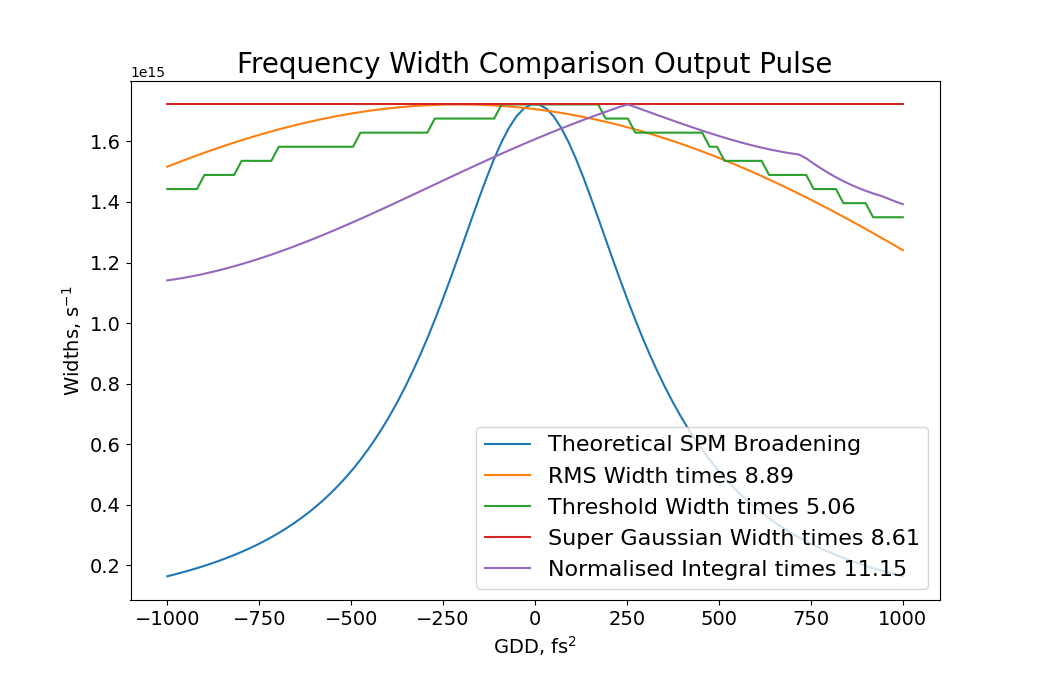
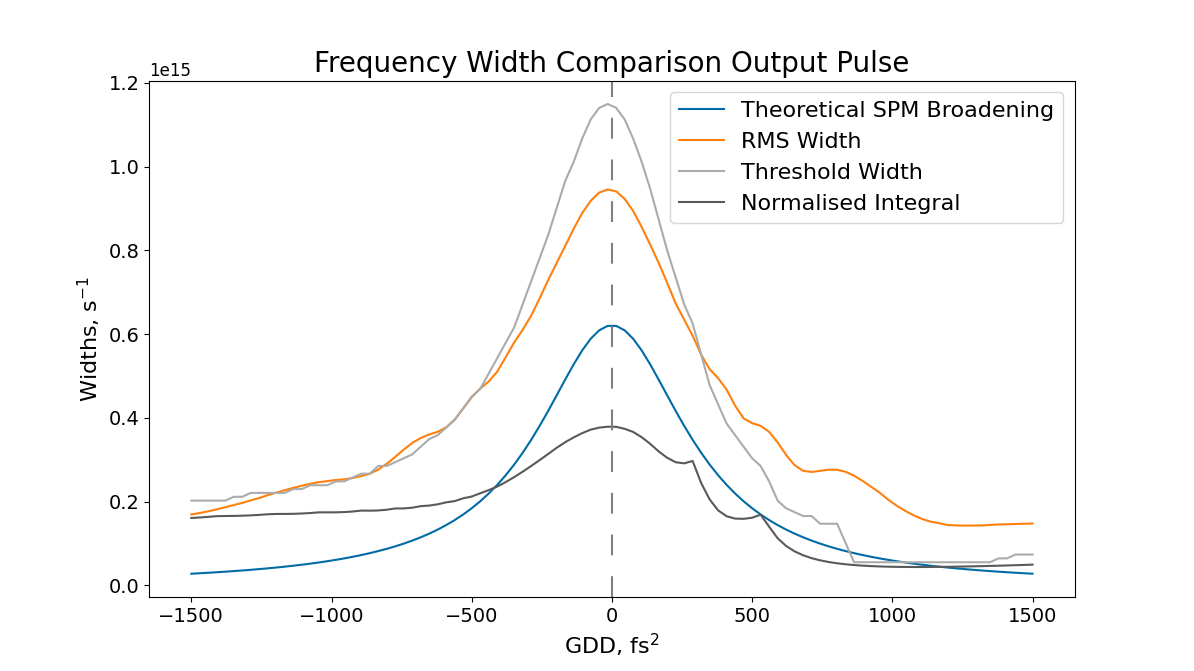
replotted GDD effects

diff --git a/HCF sim/Python/experiments/simulations/GDD_effect/effect_of_GDD_output_widths.py b/HCF sim/Python/experiments/simulations/GDD_effect/effect_of_GDD_output_widths.py
@@ -4,7 +4,11 @@ import numpy as np
 import pandas as pd
 import csv  
 import sys
-plt.rcParams['axes.prop_cycle'] = plt.cycler(color=plt.cm.Set2.colors)
+#plt.rcParams['axes.prop_cycle'] = plt.cycler(color=plt.cm.Set2.colors)
+plt.style.use('tableau-colorblind10')
+plt.rcParams['xtick.labelsize'] = 12
+plt.rcParams['ytick.labelsize'] = 12
+plt.rcParams['axes.labelsize'] = 16
 
 sys.path.append("C:\\Users\\ML\\OneDrive - Imperial College London\\MSci_Project\\code\\Synth\\Optimising-Field-Synthesiser\\HCF sim\\Python\\building datasets\\")
 #sys.path.append("C:\\Users\\iammo\\Documents\\Optimising-Field-Synthesiser\\HCF sim\\Python\\building_datasets\\")
@@ -37,7 +41,7 @@ n=5
 gdd_step=500e-30 #in fs^2
 gdd_mid=0
 #GDDs=[gdd_mid-4*gdd_step,gdd_mid-3*gdd_step,gdd_mid-2*gdd_step,gdd_mid-gdd_step,gdd_mid,gdd_mid+gdd_step,gdd_mid+2*gdd_step,gdd_mid+3*gdd_step,gdd_mid+4*gdd_step]
-GDDs=np.linspace(-2500e-30,2500e-30,100)
+GDDs=np.linspace(-1500e-30,1500e-30,100)
 
 
 # Define fixed params
@@ -45,10 +49,10 @@ c = 299792458
 wavel=800e-9
 energy=1.5e-3
 
-gas = "Ne"
+gas = "Ar"
 Main.gas_str = gas
 Main.eval("gas = Symbol(gas_str)")
-pressure = (0,3)
+pressure = (0,1)
 Main.pressure = pressure
 radius=175e-6
 Main.radius=radius
@@ -153,13 +157,15 @@ ax1.plot(GDDs*10**30,thresh_widths,label="Threshold Width")
 #ax1.plot(GDDs*10**30,superG_widths,label="Super Gaussian Width times %s"%(round(scaling_superG,2)))
 ax1.plot(GDDs*10**30,normint_widths,label="Normalised Integral")
 
-ax1.set_xlabel("GDD, fs$\mathrm{^2}$",fontsize=14)
-ax1.set_ylabel("Widths, s$\mathrm{^{-1}}$",fontsize=14)
+ax1.set_xlabel("GDD, fs$\mathrm{^2}$",fontsize=16)
+ax1.set_ylabel("Widths, s$\mathrm{^{-1}}$",fontsize=16)
 #ax2.set_ylabel("Theoretical GDD Broadening/ Threshold Width, s",fontsize=14)
 plt.xticks(fontsize=14)
 plt.yticks(fontsize=14)
 plt.legend(fontsize=16,loc="upper right")
 plt.title("Frequency Width Comparison Output Pulse", fontsize=20)
+plt.axvline(x=0,color="grey",dashes=[10,10])
+
 plt.show()
 """
 plt.plot(GDDs*10**30,rms_widths,label="RMS Width")
